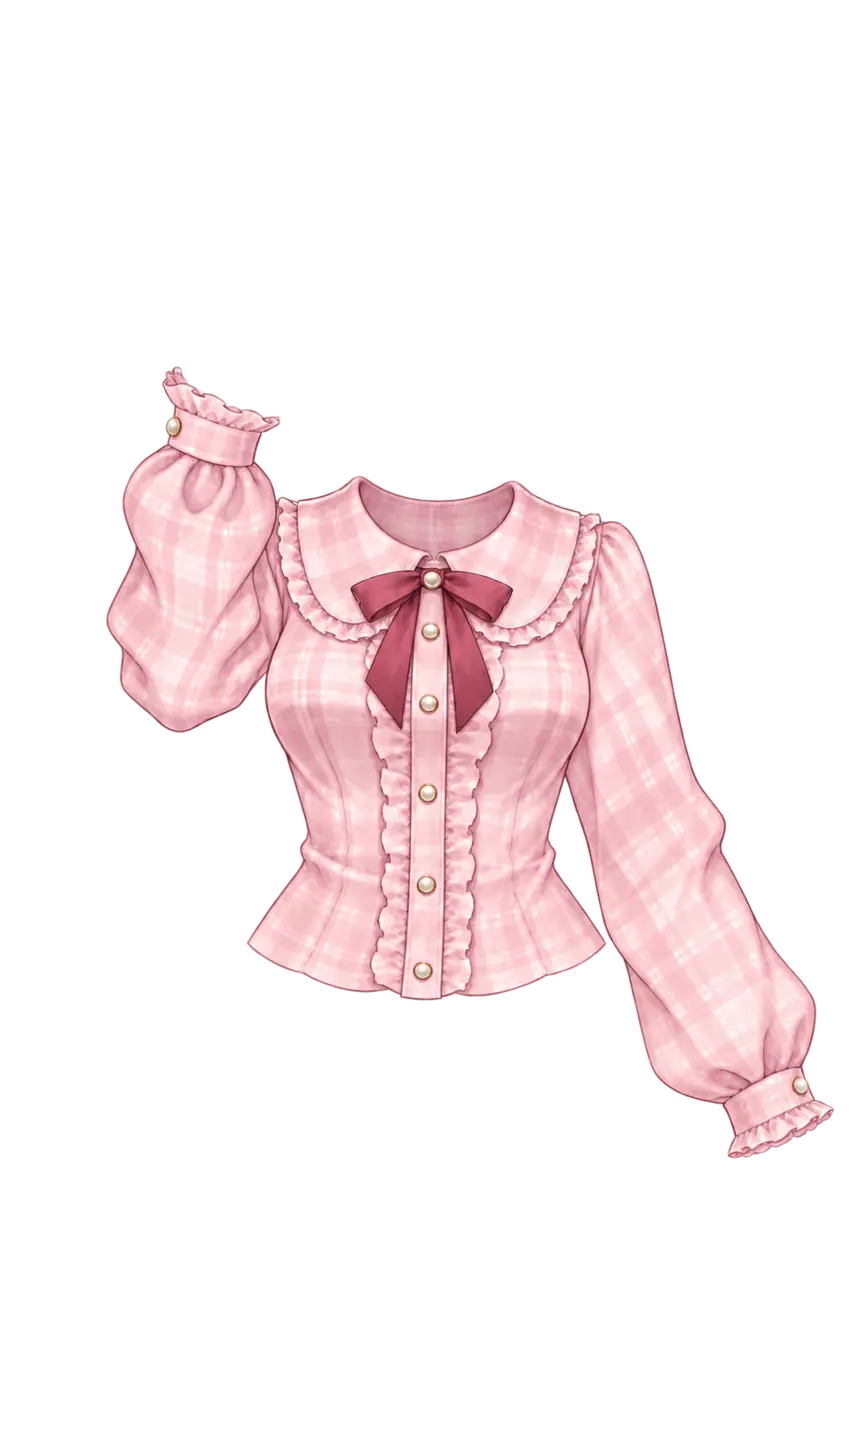
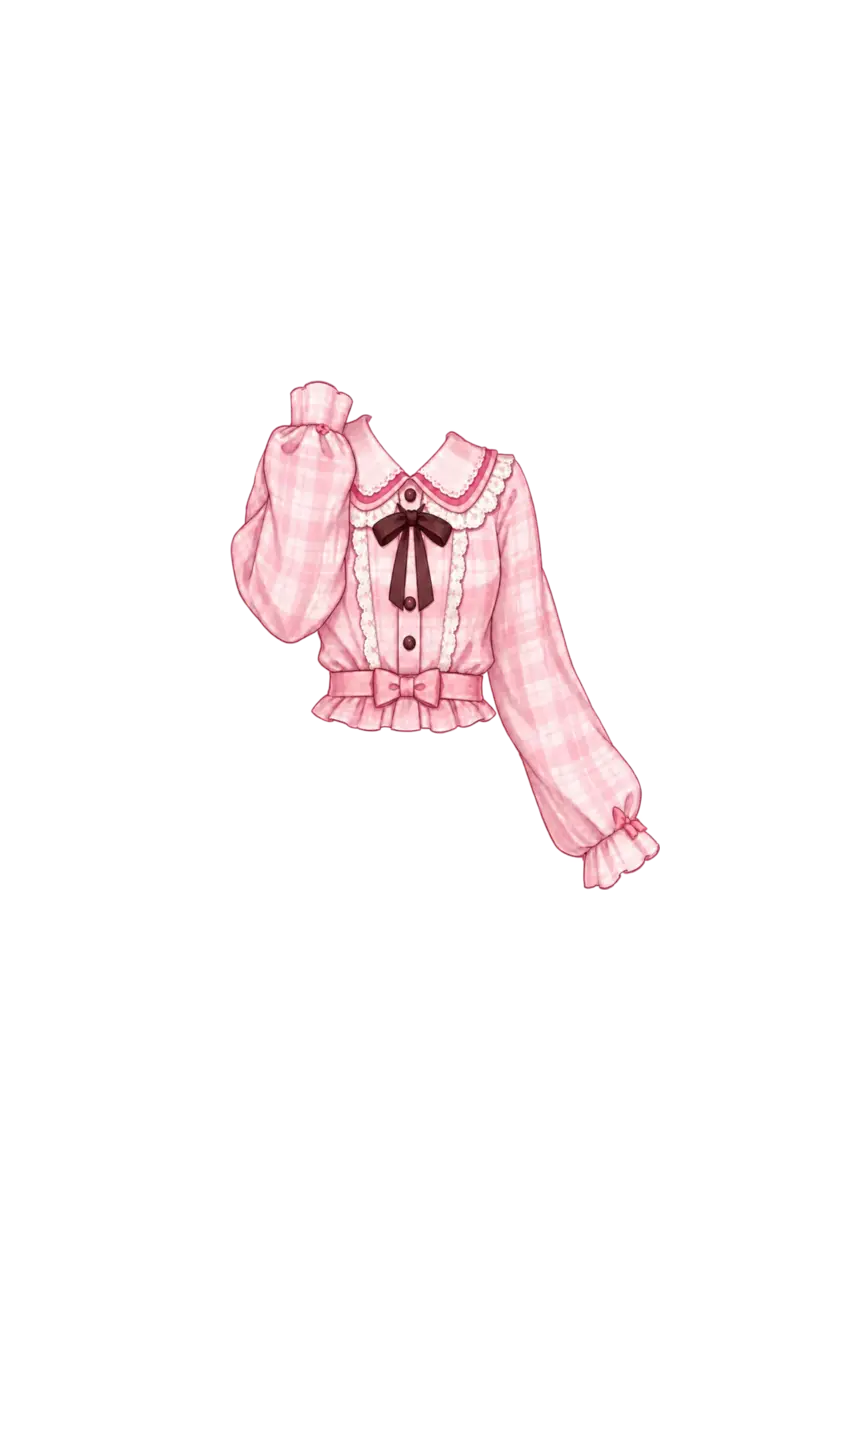
Rebuild pink top from approved full outfit

Changed region(s): [[0.1209, 0.25, 0.9674, 0.8125]]

diff --git a/assets/wardrobe-v110.js b/assets/wardrobe-v110.js
@@ -48,7 +48,7 @@
     accessory:{bow:'',pearl:'accessory-pearl.webp',beret:'accessory-beret.webp'},
     pet:{cinnamon:''}
   };
-  const layerUrl=(kind,id)=>{const file=layerAssets[kind]?.[id];return file?`${layerRoot}${file}?v=20260919-3`:''};
+  const layerUrl=(kind,id)=>{const file=layerAssets[kind]?.[id];return file?`${layerRoot}${file}?v=20260919-4`:''};
   const layerThumbUrl=(kind,id)=>{const file=layerAssets[kind]?.[id];return file?`${layerThumbRoot}${file}?v=20260918-1`:''};
   Object.keys(layerAssets).forEach(kind=>{
     if(lists[kind])lists[kind]=lists[kind].filter(x=>Object.prototype.hasOwnProperty.call(layerAssets[kind],x[0]));
